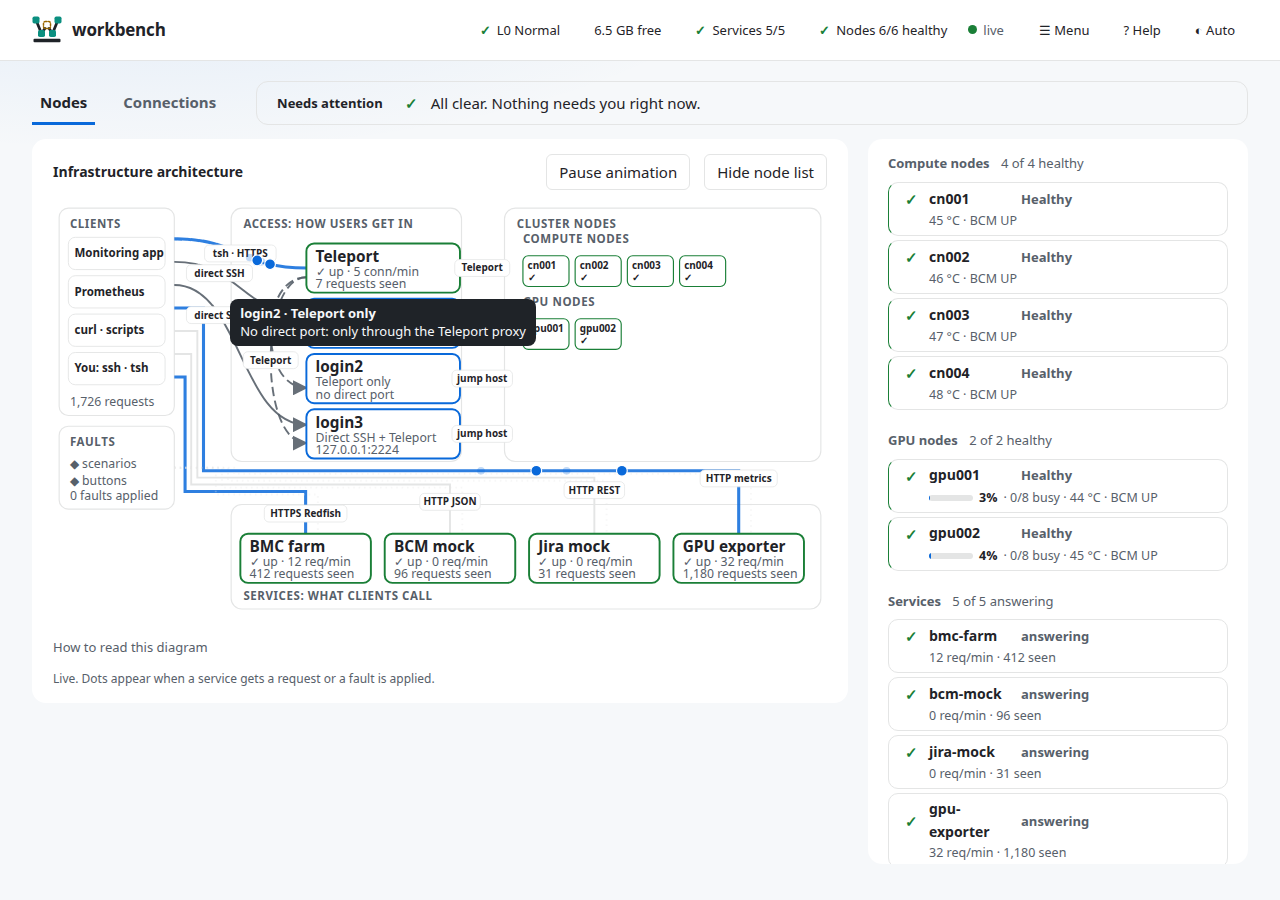
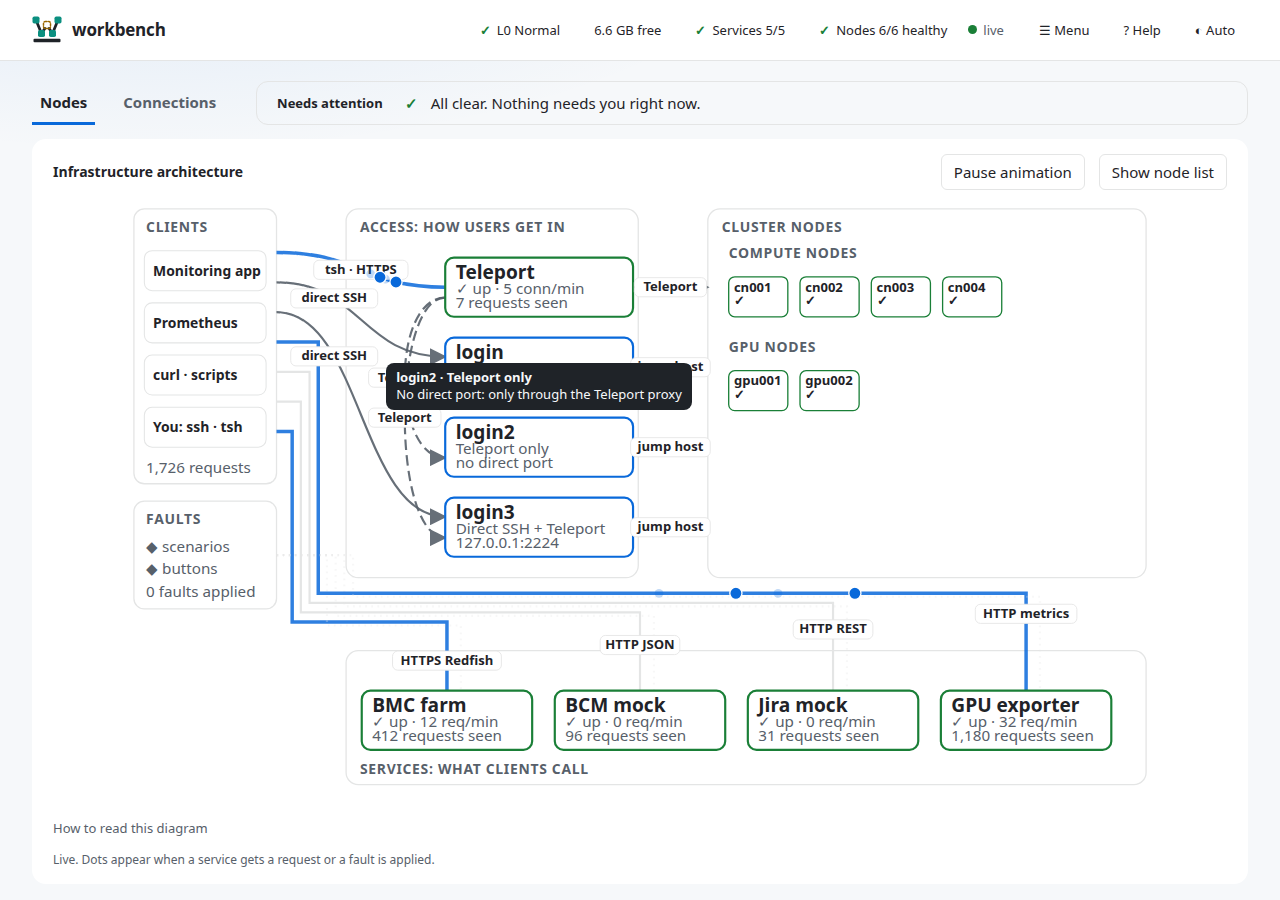
feat: roomier diagram, larger type, list folded by default in mid-size windows (#192)

diff --git a/webui/static/index.html b/webui/static/index.html
@@ -283,8 +283,8 @@
   .trafficpanel { position:relative !important; top:auto !important; }
   .nodesmain .er { grid-template-columns:20px 84px minmax(0,1fr); } .nodesmain .er .info { grid-column:2 / -1; white-space:normal; flex-wrap:wrap; } .trafficpanel .row { display:flex; align-items:center; gap:var(--sp3); flex-wrap:wrap; } .trafficpanel .row .grow { flex:1; }
   .nodesmain { max-height:calc(100vh - 175px); } #flow { max-height:calc(100vh - 300px); } .legendbox { margin-top:var(--sp1); } .trafficpanel { padding-top:var(--sp3); padding-bottom:var(--sp3); } #flow { margin:var(--sp1) 0; } .legendbox > summary { min-height:30px; }
-  #flow text { font-size:20px; } #flow text.sub { font-size:16px; } #flow .ftitle { font-size:15px; } #flow .ndt { font-size:13px; } #flow .ndt.cl { font-size:15px; }
-  #flow text.elab { font:600 13px system-ui,sans-serif; fill:var(--fg); } #flow .elbg { fill:var(--panel); stroke:var(--line); stroke-width:1; }
+  #flow text { font-size:22px; } #flow text.sub { font-size:17.5px; } #flow .ftitle { font-size:16px; } #flow .ndt { font-size:15px; } #flow .ndt.cl { font-size:16px; }
+  #flow text.elab { font:600 15px system-ui,sans-serif; fill:var(--fg); } #flow .elbg { fill:var(--panel); stroke:var(--line); stroke-width:1; }
   #flow marker path { fill:var(--dim); } #flow .lane.ssh, #flow .lane.teleport, #flow .lane.jump { stroke:var(--dim); stroke-width:2.5; opacity:.9; }
   #flow .lane.teleport { stroke-dasharray:12 6; } #flow .lane.jump { stroke-dasharray:3 6; stroke-linecap:round; } #flow .elabs { pointer-events:none; }
   #flow .blk.lgn, #flow .blk.blkacc { stroke:var(--accent); } #flow .blk.blkacc.down { stroke:var(--bad); }
@@ -853,7 +853,7 @@ const BASE_SERVICES = [['bmc-farm', 'BMC farm', 'Redfish'], ['bcm-mock', 'BCM mo
 const TELEPORT_BOX = ['teleport', 'Teleport', 'SSH proxy'];
 function hasTeleport() { try { return !!(lastCluster && 'teleport' in JSON.parse(lastCluster).services); } catch (e) { return false; } }
 function svcList() { return hasTeleport() ? [...BASE_SERVICES, TELEPORT_BOX] : BASE_SERVICES; }  // Teleport only when the part is built: no phantom box
-const FW = 1008, G = { clients: { x: 8, y: 8, w: 150, h: 272 }, injector: { x: 8, y: 294, w: 150, h: 108 }, cluster: { x: 588, y: 8, w: 412 } };
+const FW = 1180, G = { clients: { x: 8, y: 8, w: 164, h: 272 }, injector: { x: 8, y: 300, w: 164, h: 124 }, cluster: { x: 668, y: 8, w: 504 } };
 let svcOut = {}, svcLane = {};
 const reduced = matchMedia('(prefers-reduced-motion: reduce)');
 let flowEs = null, flowPaused = false, flowCursor = 0, dots = [], raf = 0, recent = [], flowSnap = null, flowLevel = 0, flowNodes = '', tiles = {}, svcPos = {};
@@ -944,28 +944,28 @@ function loginList() { try { const l = lastCluster && JSON.parse(lastCluster).lo
 function buildFlow() {
   const g = $('flow'), nodes = nodeList(), lgs = loginList(), svcs = svcList().filter(x => x[0] !== 'teleport'), tpBox = svcList().find(x => x[0] === 'teleport');
   g.innerHTML = ''; tiles = {}; svcPos = {}; svcOut = {}; svcLane = {}; flowNodes = flowSig(nodes);
-  const BX = 330, BW = 200, BH = 64, PITCH = 72, AX = 232, AW = 300, SW = 170, SPITCH = 188;
+  const BX = 366, BW = 216, BH = 68, PITCH = 92, AX = 252, AW = 336, SW = 196, SPITCH = 222;
   const CHIPS = [['Monitoring app', lgs[0].name], ['Prometheus', 'prometheus'], ['curl · scripts', null], ['You: ssh · tsh', lgs[0].name]];
-  const acc = [...(tpBox ? [tpBox] : []), ...lgs], accTop = 8, accH = 42 + acc.length * PITCH;
-  G.clients.h = 46 + CHIPS.length * 50 + 24; G.injector.y = G.clients.y + G.clients.h + 14;
-  const COLS = 5, TW = 60, TH = 40, GAP = 8, nx = G.cluster.x + 24, groups = ['compute', 'gpu'].map(k => [k, nodes.filter(n => n.kind === k)]).filter(([, r]) => r.length);
-  let y = 50; const layout = [];
-  for (const [k, rows] of groups) { layout.push(['label', k, y]); y += 20; rows.forEach((n, i) => layout.push(['node', n, nx + (i % COLS) * (TW + GAP), y + Math.floor(i / COLS) * (TH + GAP)])); y += Math.ceil(rows.length / COLS) * (TH + GAP) + 14; }
-  const topEnd = Math.max(accTop + accH, y + 4), svTop = topEnd + 56, svH = 38 + BH + 34, rightEdge = G.cluster.x + G.cluster.w;  // the band of services sits under the access layer and the nodes
-  const H = Math.max(G.injector.y + G.injector.h + 16, svTop + svH + 16); g.setAttribute('viewBox', `0 0 ${FW} ${H}`); G.cluster.h = topEnd - G.cluster.y;
+  const acc = [...(tpBox ? [tpBox] : []), ...lgs], accTop = 8, accH = 56 + acc.length * PITCH;
+  G.clients.h = 56 + CHIPS.length * 60 + 20; G.injector.y = G.clients.y + G.clients.h + 20;
+  const COLS = 5, TW = 68, TH = 46, GAP = 14, nx = G.cluster.x + 24, groups = ['compute', 'gpu'].map(k => [k, nodes.filter(n => n.kind === k)]).filter(([, r]) => r.length);
+  let y = 60; const layout = [];
+  for (const [k, rows] of groups) { layout.push(['label', k, y]); y += 26; rows.forEach((n, i) => layout.push(['node', n, nx + (i % COLS) * (TW + GAP), y + Math.floor(i / COLS) * (TH + GAP)])); y += Math.ceil(rows.length / COLS) * (TH + GAP) + 22; }
+  const topEnd = Math.max(accTop + accH, y + 4), svTop = topEnd + 84, svH = 46 + BH + 40, rightEdge = G.cluster.x + G.cluster.w;  // the band of services sits under the access layer and the nodes
+  const H = Math.max(G.injector.y + G.injector.h + 20, svTop + svH + 20); g.setAttribute('viewBox', `0 0 ${FW} ${H}`); G.cluster.h = topEnd - G.cluster.y;
   const fr = (x, y0, w, h, rx) => sv('rect', { class: 'frame', x, y: y0, width: w, height: h, rx });
   const defs = sv('defs', {}), mk = sv('marker', { id: 'arr', viewBox: '0 0 10 10', refX: 9, refY: 5, markerWidth: 8, markerHeight: 8, orient: 'auto' }); mk.append(sv('path', { d: 'M0 0 L10 5 L0 10 z' })); defs.append(mk); g.append(defs);
   g.append(fr(G.clients.x, G.clients.y, G.clients.w, G.clients.h, 12), fr(G.injector.x, G.injector.y, G.injector.w, G.injector.h, 12), fr(AX, accTop, AW, accH, 14), fr(AX, svTop, rightEdge - AX, svH, 14), fr(G.cluster.x, G.cluster.y, G.cluster.w, G.cluster.h, 14));
   const jy = G.injector.y;
   g.append(sv('text', { class: 'ftitle', x: 22, y: 34 }, 'Clients'), sv('text', { class: 'ftitle', x: 22, y: jy + 26 }, 'Faults'), sv('text', { class: 'ftitle', x: AX + 16, y: accTop + 26 }, 'Access: how users get in'), sv('text', { class: 'ftitle', x: AX + 16, y: svTop + svH - 12 }, 'Services: what clients call'), sv('text', { class: 'ftitle', x: G.cluster.x + 16, y: 34 }, 'Cluster nodes'));
-  g.append(sv('text', { class: 'sub', id: 'fc-clients', x: 22, y: G.clients.y + G.clients.h - 12 }, ''), sv('text', { class: 'sub', id: 'fc-injector', x: 22, y: jy + 96 }, ''), sv('text', { class: 'sub', x: 22, y: jy + 54 }, '◆ scenarios'), sv('text', { class: 'sub', x: 22, y: jy + 76 }, '◆ buttons'));
+  g.append(sv('text', { class: 'sub', id: 'fc-clients', x: 22, y: G.clients.y + G.clients.h - 12 }, ''), sv('text', { class: 'sub', id: 'fc-injector', x: 22, y: jy + 110 }, ''), sv('text', { class: 'sub', x: 22, y: jy + 58 }, '◆ scenarios'), sv('text', { class: 'sub', x: 22, y: jy + 84 }, '◆ buttons'));
   const nOut = (tpBox ? 1 : 0) + lgs.filter(l => l.mode !== 'teleport').length + svcs.length; let oi = 0;  // lines leave the client frame spread along its edge, so they do not pile up
-  const out = () => ({ x: G.clients.x + G.clients.w, y: G.clients.y + 40 + (oi++) * ((G.clients.h - 90) / Math.max(nOut - 1, 1)) });
+  const out = () => ({ x: G.clients.x + G.clients.w, y: G.clients.y + 50 + (oi++) * ((G.clients.h - 110) / Math.max(nOut - 1, 1)) });
   const injOut = { x: G.injector.x + G.injector.w, y: G.injector.y + G.injector.h / 2 };
   const lanes = sv('g', {}), labels = sv('g', { class: 'elabs' }); g.append(lanes);
   const edge = (kind, bz, text, tt = 0.5, id) => {  // a labelled line: `kind` says the method (ssh, teleport, jump, api), the label says it in words
     lanes.append(sv('path', { class: 'lane ' + kind, d: dpath(bz), ...(id ? { id } : {}), ...(kind !== 'api' ? { 'marker-end': 'url(#arr)' } : {}) }));
-    const m = at(bz, tt), w = text.length * 7.2 + 14; labels.append(sv('rect', { class: 'elbg', x: m.x - w / 2, y: m.y - 11, width: w, height: 22, rx: 6 }), sv('text', { class: 'elab', x: m.x, y: m.y + 4.5, 'text-anchor': 'middle' }, text));
+    const m = at(bz, tt), w = text.length * 8.4 + 16; labels.append(sv('rect', { class: 'elbg', x: m.x - w / 2, y: m.y - 11, width: w, height: 22, rx: 6 }), sv('text', { class: 'elab', x: m.x, y: m.y + 4.5, 'text-anchor': 'middle' }, text));
     return bz;
   };
   const box = (k, label, sub, p, popKind, popId, cls = '') => {
@@ -974,7 +974,7 @@ function buildFlow() {
     bg.append(sv('rect', { class: 'blk ' + cls, id: 'fb-' + k, x: p.x, y: p.y, width: p.w, height: p.h, rx: 10 }), sv('text', { class: 'sn', x: p.x + 12, y: p.y + 24 }, label), sv('text', { class: 'sub', id: 'fs-' + k, x: p.x + 12, y: p.y + 42 }, ''), sv('text', { class: 'sub', id: 'fc-' + k, x: p.x + 12, y: p.y + 58 }, sub)); return bg;
   };
   const svTip = k => { const l = svcList().find(x => x[0] === k); const up = flowSnap?.reachable[k]; return [l[1] + ' · ' + (up ? 'up' : flowSnap ? 'not reachable' : 'checking'), SVC_METHOD[k] + ' · click for address and command']; };
-  const place = acc.map((a, i) => [a, { x: BX, y: accTop + 46 + i * PITCH, w: BW, h: BH }]);
+  const place = acc.map((a, i) => [a, { x: BX, y: accTop + 56 + i * PITCH, w: BW, h: BH }]);
   const tpP = tpBox && place[0][1];
   if (tpBox) { const o = svcOut.teleport = out(); svcLane.teleport = edge('api', curve(o, { x: tpP.x, y: tpP.y + BH / 2 }), SVC_METHOD.teleport, 0.5, 'ln-teleport'); }
   for (const [l, p] of place) {
@@ -985,7 +985,7 @@ function buildFlow() {
   }
   const outs = svcs.map(() => out()).reverse();  // the rightmost box takes the topmost origin: no two service lines cross
   svcs.forEach(([k], i) => {  // services: a line from the clients runs down the gutter, along the channel above the band, and drops into the top of each box; faults get a dotted one
-    const p = { x: AX + 12 + i * SPITCH, y: svTop + 38, w: SW, h: BH }, o = svcOut[k] = outs[i], top = { x: p.x + p.w / 2, y: p.y }, vx = G.clients.x + G.clients.w + 14 + i * 8, hy = topEnd + 12 + (svcs.length - 1 - i) * 9;
+    const p = { x: AX + 18 + i * SPITCH, y: svTop + 46, w: SW, h: BH }, o = svcOut[k] = outs[i], top = { x: p.x + p.w / 2, y: p.y }, vx = G.clients.x + G.clients.w + 18 + i * 10, hy = topEnd + 18 + (svcs.length - 1 - i) * 11;
     svcLane[k] = edge('api', poly([o, { x: vx, y: o.y }, { x: vx, y: hy }, { x: top.x, y: hy }, top]), SVC_METHOD[k], 0.93, 'ln-' + k); svcPos[k] = p;
     lanes.append(sv('path', { class: 'lane inj', d: dpath(poly([injOut, { x: vx + 40, y: injOut.y }, { x: vx + 40, y: hy + 4 }, { x: top.x + 16, y: hy + 4 }, { x: top.x + 16, y: top.y }])), opacity: 0.3 }));
   });
@@ -1001,7 +1001,7 @@ function buildFlow() {
   svcs.forEach(([k, label, sub]) => g.append(box(k, label, sub, svcPos[k], 'svc', k)));
   CHIPS.forEach(([t], i) => {
     const cg = asButton(sv('g', {}), `${t}: how it connects`, () => openPop(cg, 'client', t), () => [t, CLIENT_INFO[t]]);
-    cg.append(sv('rect', { class: 'chipbg', x: 20, y: 46 + i * 50, width: 126, height: 42, rx: 9 }), sv('text', { class: 'ndt cl', x: 28, y: 72 + i * 50 }, t)); g.append(cg);
+    cg.append(sv('rect', { class: 'chipbg', x: 20, y: 56 + i * 60, width: 140, height: 46, rx: 9 }), sv('text', { class: 'ndt cl', x: 30, y: 85 + i * 60 }, t)); g.append(cg);
   });
   for (const item of layout) {
     if (item[0] === 'label') { g.append(sv('text', { class: 'ftitle', x: nx, y: item[2] + 4 }, item[1] === 'gpu' ? 'GPU nodes' : 'Compute nodes')); continue; }
@@ -1082,13 +1082,13 @@ function closeFlow() { if (flowEs) flowEs.close(); flowEs = null; flowCursor = 0
 $('flowpause').onclick = () => { flowPaused = !flowPaused; $('flowpause').setAttribute('aria-pressed', flowPaused); $('flowpause').textContent = flowPaused ? 'Resume animation' : 'Pause animation'; flowNote(); };
 
 // the node list beside the diagram folds away, so the diagram can have the whole width (remembered when storage allows)
-function setTree(open) {
+function setTree(open, remember = true) {
   $('nodeswrap').classList.toggle('treeoff', !open); $('treetoggle').setAttribute('aria-expanded', open); $('treetoggle').textContent = open ? 'Hide node list' : 'Show node list';
-  try { localStorage.setItem('workbench-tree', open ? 'open' : 'closed'); } catch (e) { /* not remembered */ }
+  if (remember) try { localStorage.setItem('workbench-tree', open ? 'open' : 'closed'); } catch (e) { /* not remembered */ }
 }
 $('treetoggle').onclick = () => setTree($('treetoggle').getAttribute('aria-expanded') !== 'true');
 let treePref = null; try { treePref = localStorage.getItem('workbench-tree'); } catch (e) { /* default */ }
-if (treePref === 'closed') setTree(false);
+if (treePref === 'closed' || (!treePref && innerWidth < 1500 && innerWidth > 1100)) setTree(false, false);  // a mid-size window: the diagram gets the width until you ask for the list (a wide one has room for both; a narrow one stacks them)
 // scenario chip in the status strip, so a running scenario is visible on every page
 let chipTimer;
 async function runChip() {

diff --git a/scripts/ui_shots.py b/scripts/ui_shots.py
@@ -51,6 +51,7 @@ def capture(out: Path) -> dict:
                                 raise
                             time.sleep(0.3)
                     page.wait_for_timeout(2000)
+                    page.evaluate("setTree(true, false)")  # a 1280 px window starts with the list folded; the checks below look at the list
                     path = out / f"dashboard-{vp}-{scheme}.png"
                     page.screenshot(path=str(path), full_page=True)
                     result["shots"].append(str(path))

diff --git a/docs/adr/0024-architecture-as-the-main-view.md b/docs/adr/0024-architecture-as-the-main-view.md
@@ -13,18 +13,19 @@ reach every part from one picture.
   login node, and proxy to the nodes), `jump host` (login node to the nodes, by `ssh` from the login node), and the API lines
   (`HTTP REST`, `HTTPS Redfish`, `tsh · HTTPS`, ...). The login nodes come from the saved workbench through `/api/cluster`
   (`logins: [{name, mode, port}]`); the page still reads files only (SPEC W-3).
+- **Room to breathe.** Generous gaps between columns and rows, one box per entity with its own label, and larger type; the layout is 1180 units wide.
 - **Wide, not tall.** Three columns on top (clients and faults, access, nodes), the services in a band under them. The service lines
   run down a channel between the two, ordered so that none crosses another.
 - **Part and tip.** Hovering any part shows one line (state, how it is reached); clicking it opens a pop-up next to it with the
   address, credential path, a command to copy and buttons (a node's actions, the Connections row). The pop-up is a non-modal
   dialog: Esc closes it and returns the focus. Tips also show on keyboard focus.
-- **The node list folds away** (a button, remembered in local storage). Open by default, beside the diagram; folded, the diagram has
+- **The node list folds away** (a button, remembered in local storage). Open by default beside the diagram, except in a window between 1100 and 1500 px, which starts folded so the diagram is not shrunk below reading size; folded, the diagram has
   the whole width. Opening a node's panel unfolds it.
 - **The options sheet degrades.** If the backend predates `logins` in `/api/settings`, the parts are still listed and the login rows
   are hidden; a real failure names the cure (`benchctl stop`, `benchctl start`).
 
 ## Consequences
-- The diagram is wider (viewBox 1008 wide) and its height grows with the number of login nodes; the one-screen rule (no page
+- The diagram is wider (viewBox 1180 wide) and its height grows with the number of login nodes; the one-screen rule (no page
   scrolling at 1280x900 with six nodes) is checked by `ui_shots.py`, together with the tip, the pop-up and the fold.
 - A phone scrolls the diagram sideways inside its panel instead of shrinking it past reading.
 - The login nodes' state is not probed (there is no counter for ssh traffic): their boxes show the way in, not a health status, so no dots run on the `direct SSH` lines.

diff --git a/docs/manual/05-web-page.md b/docs/manual/05-web-page.md
@@ -21,7 +21,7 @@ this machine can use the page, so keep it private. The page listens on `127.0.0.
 |---|---|
 | **Top strip** | governor level, free memory, healthy services and nodes, the running scenario; then **☰ Menu**, help and the theme switch. The strip is for status only. **☰ Menu** lists the actions in three groups, each with a one-line hint: *Run* (**▶ Scenarios**), *Configure* (**▦ Cluster architecture**: nodes, GPUs per node, optional parts and the plan; **✚ Health checks**) and *Share* (**⇩ Export**). Esc closes it. Pressing the level or memory chip opens the **Governor** panel |
 | **Tabs and Needs attention** | the tabs *Nodes* and *Connections*, and one slim bar next to them with every item that needs you, or "All clear" |
-| **Stage** (Nodes tab) | the **Infrastructure architecture** on the left and the **node list** on the right (its three groups, Compute, GPU and Services, stacked one under the other). **Hide node list** folds the list away and gives the diagram the whole width; the choice is remembered |
+| **Stage** (Nodes tab) | the **Infrastructure architecture** on the left and the **node list** on the right (its three groups, Compute, GPU and Services, stacked one under the other). **Hide node list** folds the list away and gives the diagram the whole width; the choice is remembered (windows between 1100 and 1500 px start with the list folded, press **Show node list**) |
 
 Three panels open on top of the page from the top strip or its **☰ Menu** and close with **✕ Close**, Esc or a click outside: **Scenarios**,
 **Plan** and **Governor**. A node is different: it opens *in place of the list* (below), so the Infrastructure architecture stays in view.
